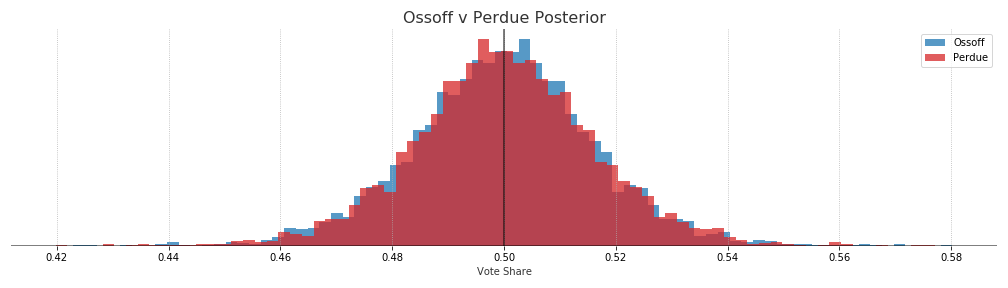
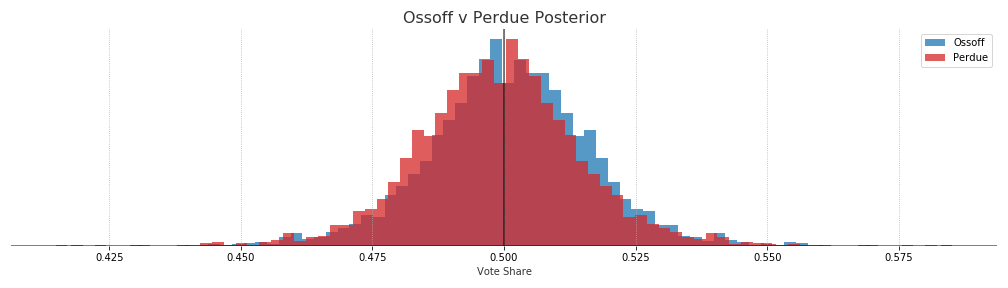
updated with gravis poll

diff --git a/_posts/2020-12-18-election.md b/_posts/2020-12-18-election.md
@@ -4,14 +4,14 @@ title: Hierarchical Partial Pooling for Georgia Runoff Elections
 published: True
 ---
 
-Updated: Jan 1, 2020
+Updated: Jan 2, 2020
 
-# Warnock: 60.7% - Loeffler: 40.3% 
+# Warnock: 63.4% - Loeffler: 36.6% 
 
 {: .center}
 ![WL Posterior](../images/ga_wl_posteriors.png)
 
-# Ossoff: 50.4% - Perdue: 49.6% 
+# Ossoff: 52.5% - Perdue: 47.5% 
 
 {: .center}
 ![WL Posterior](../images/ga_op_posteriors.png)
@@ -22,10 +22,10 @@ Updated: Jan 1, 2020
 
 | Candidate | Mean | 80% Interval |
 | ----------|------|--------------|
-| Ossoff    | 50.0 | 48.0 - 52.0  |
-| Perdue    | 50.2 | 48.0 - 52.0  |
-| Warnock   | 50.4 | 48.6 - 52.4  |
-| Loeffler  | 49.6 | 47.6 - 51.4  |
+| Ossoff    | 50.1 | 48.3 - 52.0  |
+| Perdue    | 49.9 | 48.0 - 51.7  |
+| Warnock   | 50.4 | 48.7 - 52.1  |
+| Loeffler  | 49.6 | 47.9 - 51.3  |
 
 ## Methods
 
